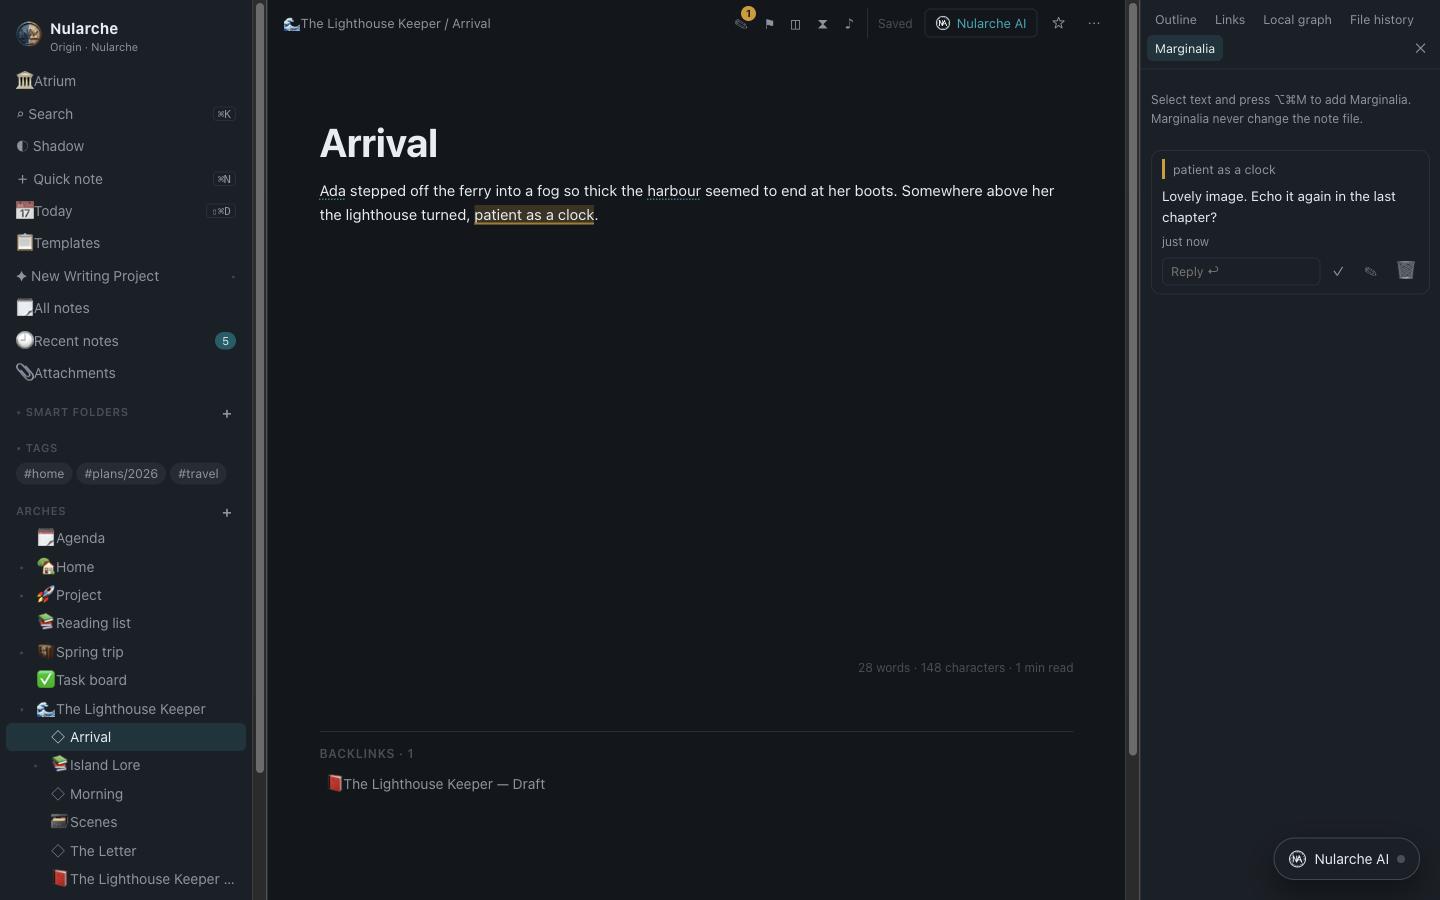
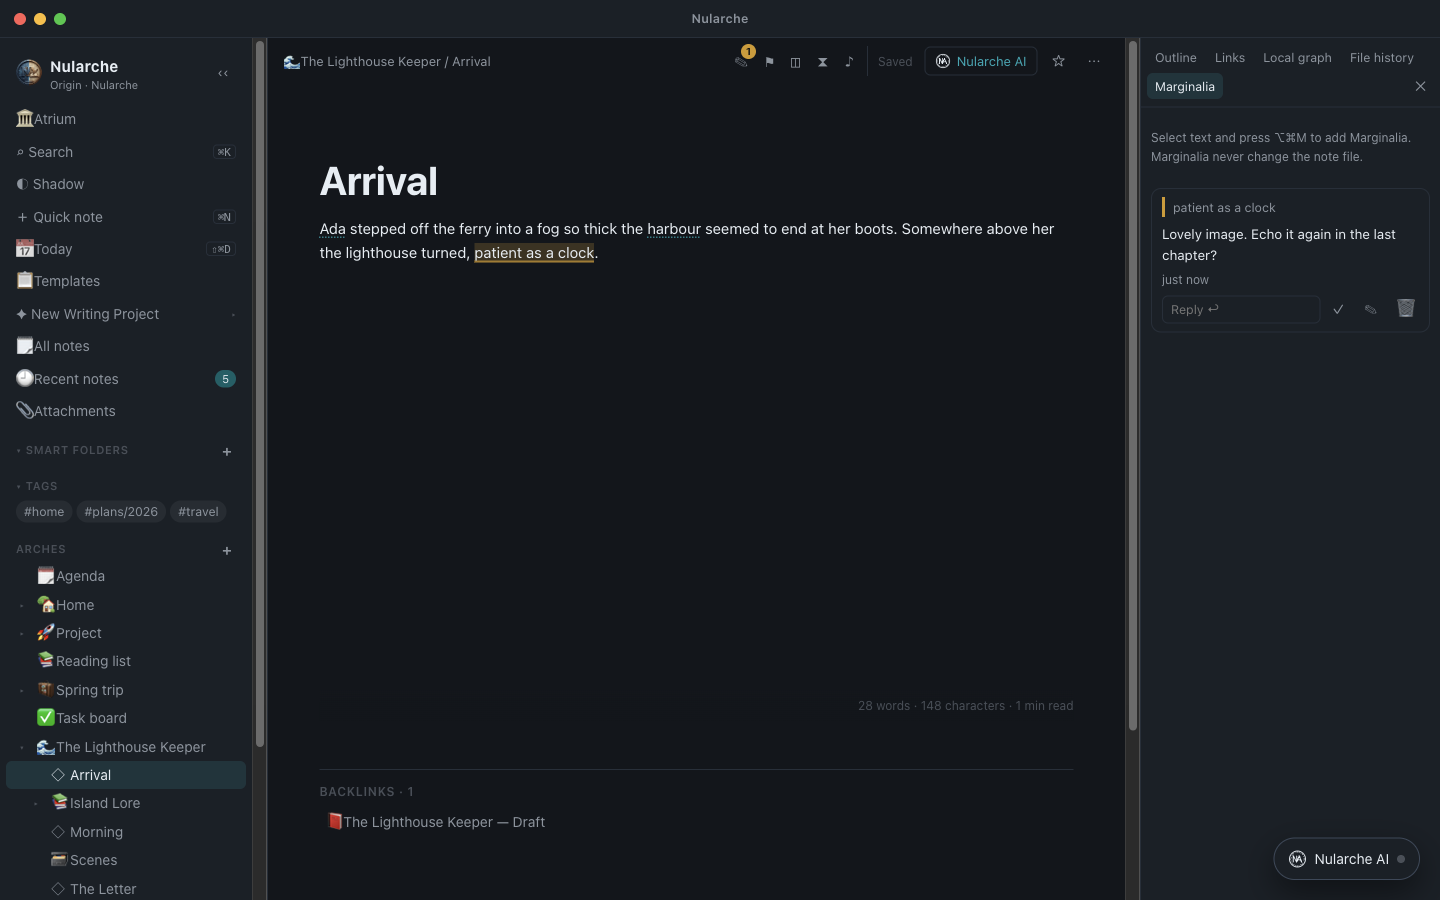
feat(ui): sidebar and title bar match the chosen background
Backgrounds fill the whole window; the sidebar, side panel and title bar
become frosted glass over them, and follow the app theme when no
background is set. macOS gets a title bar drawn by Nularche; Windows and
Linux switch the native frame to dark or light. README screenshots now
show this, the collapsible sidebar and the About page.

diff --git a/packages/desktop/src/main.ts b/packages/desktop/src/main.ts
@@ -4,7 +4,7 @@
 // .nlc/.nla dosyalarını karşılar. Uygulama hiçbir AI kimlik bilgisine dokunmaz; AI işi kullanıcının
 // seçtiği resmi araçta (Claude, ChatGPT, Gemini) "nularche" MCP sunucusuyla yapılır.
 
-import { app, BrowserWindow, clipboard, dialog, ipcMain, Menu, nativeTheme, shell, type MenuItemConstructorOptions } from "electron";
+import { app, BrowserWindow, clipboard, dialog, ipcMain, Menu, nativeTheme, shell, type BrowserWindowConstructorOptions, type MenuItemConstructorOptions } from "electron";
 import { existsSync } from "node:fs";
 import { copyFile, mkdir, readdir, readFile, writeFile } from "node:fs/promises";
 import { homedir } from "node:os";
@@ -349,6 +349,22 @@ async function importArchiveFile(file: string): Promise<{ imported: number; root
   return { imported: res.imported, rootIds: res.rootIds };
 }
 
+/** Pencere çerçevesi: macOS'ta başlık çubuğunu arayüz çizer (seçilen arka plana uysun diye); trafik ışıkları yerinde kalır.
+ * Windows ve Linux'ta yerel çerçeve ve menü çubuğu korunur; renkleri `set-chrome` ile koyu/açık olarak arka plana uyar. */
+const frameOptions = (): BrowserWindowConstructorOptions =>
+  process.platform === "darwin" ? { titleBarStyle: "hidden", trafficLightPosition: { x: 14, y: 13 } } : {};
+
+/** Arka plan seçiliyken yerel çerçevenin (başlık çubuğu, menüler) koyu/açık görünümü; null ise kullanıcının teması. */
+let chromeOverride: "dark" | "light" | null = null;
+const applyNativeTheme = () => (nativeTheme.themeSource = chromeOverride ?? settings.theme ?? "system");
+
+/** Tam ekrandayken arayüzün çizdiği başlık çubuğu gizlenir. */
+function watchFullScreen(w: BrowserWindow): void {
+  const send = (on: boolean) => w.webContents.send("nularche:full-screen", on);
+  w.on("enter-full-screen", () => send(true));
+  w.on("leave-full-screen", () => send(false));
+}
+
 /** Ayrı not pencereleri (Pencere → Notu ayrı pencerede aç). */
 const noteWindows = new Set<BrowserWindow>();
 
@@ -362,6 +378,7 @@ function createNoteWindow(nodeId: string): void {
     title: "Nularche",
     backgroundColor: nativeTheme.shouldUseDarkColors ? DARK_BG : LIGHT_BG,
     show: false,
+    ...frameOptions(),
     webPreferences: {
       preload: resourcePath("preload.cjs"),
       contextIsolation: true,
@@ -371,6 +388,7 @@ function createNoteWindow(nodeId: string): void {
     },
   });
   noteWindows.add(w);
+  watchFullScreen(w);
   w.once("ready-to-show", () => w.show());
   guardNavigation(w);
   w.on("closed", () => noteWindows.delete(w));
@@ -408,6 +426,7 @@ function createWindow(): void {
     title: "Nularche",
     backgroundColor: nativeTheme.shouldUseDarkColors ? DARK_BG : LIGHT_BG,
     show: false,
+    ...frameOptions(),
     webPreferences: {
       preload: resourcePath("preload.cjs"),
       contextIsolation: true,
@@ -417,6 +436,7 @@ function createWindow(): void {
       additionalArguments: [`--nlc-lang=${desktopLang()}`, `--nlc-theme=${settings.theme ?? "system"}`],
     },
   });
+  watchFullScreen(win);
   win.once("ready-to-show", () => win?.show());
   if (SMOKE) {
     win.webContents.on("console-message", (e) => {
@@ -748,8 +768,12 @@ function registerIpc(): void {
   ipcMain.handle("nularche:set-theme", async (_e, theme: unknown) => {
     if (!isTheme(theme)) return;
     settings.theme = theme;
-    nativeTheme.themeSource = theme;
+    applyNativeTheme();
     await saveSettings(settings);
+  });
+  ipcMain.handle("nularche:set-chrome", (_e, mode: unknown) => {
+    chromeOverride = mode === "dark" || mode === "light" ? mode : null;
+    applyNativeTheme();
   });
   ipcMain.handle("nularche:set-language", async (_e, lang: unknown) => {
     if (!isLang(lang)) return;

diff --git a/packages/web/src/styles.css b/packages/web/src/styles.css
@@ -1300,3 +1300,53 @@ button.status-pill:hover { color: var(--nlc-text-primary); border-color: var(--n
 .about-support { align-items: center; }
 .about-mail { font-size: 15px; font-weight: 600; color: var(--nlc-accent-primary); text-decoration: none; padding: 6px 12px; border: 1px solid var(--nlc-border-subtle); border-radius: 8px; }
 .about-mail:hover { border-color: var(--nlc-accent-primary); background: var(--nlc-accent-glow); }
+
+/* Arayüzün çizdiği macOS başlık çubuğu (2.0): tema ya da seçilen arka planla aynı tonda. */
+:root[data-frame="mac"] { --frame-top: 38px; }
+:root[data-frame="mac"] .app { padding-top: var(--frame-top); }
+.titlebar { position: fixed; top: 0; left: 0; right: 0; height: 38px; z-index: 1000; display: flex; align-items: center; justify-content: center; font-size: 12.5px; font-weight: 600; letter-spacing: 0.02em; color: var(--nlc-text-secondary); background: var(--nlc-bg-elevated); border-bottom: 1px solid var(--nlc-border-subtle); -webkit-app-region: drag; user-select: none; }
+.focus-hud.top { top: var(--frame-top, 0px); }
+.focus-picker { top: calc(var(--frame-top, 0px) + 46px); }
+.rail-tip { z-index: 1001; }
+
+/* Seçilen arka plan bütün pencereye yayılır: kenar çubuğu ve başlık çubuğu onu buzlu cam gibi gösterir.
+   Yazılar arka planın koyu/açık tonuna göre okunur; açılır menüler opak kalır. */
+.app.wrap-bg > .main { background: transparent; }
+.app.wrap-bg > .sidebar, .app.wrap-bg > .titlebar, .app.wrap-bg > .side-panel { background: var(--chrome-glass); backdrop-filter: blur(22px) saturate(1.3); -webkit-backdrop-filter: blur(22px) saturate(1.3); color: var(--nlc-text-primary); }
+.app.wrap-bg.chrome-dark > .sidebar, .app.wrap-bg.chrome-dark > .titlebar, .app.wrap-bg.chrome-dark > .side-panel {
+  --chrome-glass: rgba(14, 18, 24, 0.46);
+  --nlc-bg-surface: #12161b;
+  --nlc-bg-elevated: #1a2027;
+  --nlc-border-subtle: rgba(255, 255, 255, 0.12);
+  --nlc-border-focus: rgba(255, 255, 255, 0.24);
+  --nlc-text-primary: #eef2f6;
+  --nlc-text-secondary: #c0c8d0;
+  --nlc-text-shadow: #95a0ab;
+  --nlc-accent-primary: #3cc6d0;
+  --nlc-accent-glow: rgba(60, 198, 208, 0.2);
+  --nlc-accent-deep: #005f66;
+  --nlc-hover: rgba(255, 255, 255, 0.08);
+  --nlc-code-bg: rgba(0, 0, 0, 0.25);
+  color-scheme: dark;
+}
+.app.wrap-bg.chrome-light > .sidebar, .app.wrap-bg.chrome-light > .titlebar, .app.wrap-bg.chrome-light > .side-panel {
+  --chrome-glass: rgba(255, 255, 255, 0.5);
+  --nlc-bg-surface: #ffffff;
+  --nlc-bg-elevated: #f6f8fa;
+  --nlc-border-subtle: rgba(0, 0, 0, 0.1);
+  --nlc-border-focus: rgba(0, 0, 0, 0.22);
+  --nlc-text-primary: #1f2328;
+  --nlc-text-secondary: #424a53;
+  --nlc-text-shadow: #656d76;
+  --nlc-accent-primary: #007f89;
+  --nlc-accent-glow: rgba(0, 127, 137, 0.14);
+  --nlc-accent-deep: #9ad9de;
+  --nlc-hover: rgba(0, 0, 0, 0.06);
+  --nlc-code-bg: rgba(0, 0, 0, 0.05);
+  color-scheme: light;
+}
+/* Arka plan üzerinde kaydırma çubukları ince ve yarı saydamdır; gri şeritler sahneyi bölmez. */
+.app.wrap-bg ::-webkit-scrollbar { width: 10px; height: 10px; background: transparent; }
+.app.wrap-bg ::-webkit-scrollbar-thumb { border-radius: 8px; border: 3px solid transparent; background-clip: padding-box; }
+.app.wrap-bg.chrome-dark ::-webkit-scrollbar-thumb { background-color: rgba(255, 255, 255, 0.22); }
+.app.wrap-bg.chrome-light ::-webkit-scrollbar-thumb { background-color: rgba(0, 0, 0, 0.22); }

diff --git a/scripts/screenshots.ts b/scripts/screenshots.ts
@@ -86,6 +86,11 @@ const app = await electron.launch({
 const page: Page = await app.firstWindow();
 await page.setViewportSize({ width: 1440, height: 900 });
 const shot = (name: string) => page.screenshot({ path: path.join(out, `${name}.png`) });
+// Sayfa görüntüsü yerel trafik ışıklarını içermez; macOS penceresi gibi görünsün diye başlık çubuğuna çizilir.
+const lights = `.titlebar::before { content: ""; position: absolute; left: 14px; top: 13px; width: 12px; height: 12px; border-radius: 50%; background: #ff5f57; box-shadow: 20px 0 #febc2e, 40px 0 #28c840; }`;
+await page.addInitScript((css) => addEventListener("DOMContentLoaded", () => document.head.append(Object.assign(document.createElement("style"), { textContent: css }))), lights);
+await page.addStyleTag({ content: lights });
+const putPrefs = (prefs: Record<string, unknown>) => page.evaluate(async (b) => void (await fetch("/api/prefs", { method: "PUT", headers: { "content-type": "application/json" }, body: JSON.stringify(b) })), prefs);
 const fromTemplate = async (name: string) => {
   await page.locator(".side-btn", { hasText: "Templates" }).click();
   await page.locator(".segmented button", { hasText: "New Arche" }).click();
@@ -416,6 +421,41 @@ try {
   await page.locator(".glossary").waitFor();
   await page.waitForTimeout(300);
   await shot("vocabulary-light");
+  await page.keyboard.press("Escape");
+  // Arka plana uyan kenar çubuğu ve başlık çubuğu, küçültülmüş kenar çubuğu ve Hakkında sayfası.
+  const withBg = async (writingBg: unknown, name: string, scheme: "dark" | "light") => {
+    await putPrefs({ writingBg, writingBgEverywhere: true });
+    await page.evaluate(() => location.reload());
+    await page.locator(".sidebar").waitFor();
+    await page.emulateMedia({ colorScheme: scheme });
+    await page.evaluate((id) => (location.hash = id), studio.arrival);
+    await page.locator(".ProseMirror").first().waitFor();
+    await page.mouse.move(700, 10);
+    await page.waitForTimeout(900);
+    await shot(name);
+  };
+  await withBg({ kind: "scene", id: "lavender" }, "chrome-lavender", "light");
+  await withBg({ kind: "scene", id: "night" }, "chrome-night", "light");
+  await withBg({ kind: "palette", id: "sepia" }, "chrome-sepia", "dark");
+  await putPrefs({ writingBg: { kind: "none" }, writingBgEverywhere: false, sidebarMini: true });
+  await page.evaluate(() => location.reload());
+  await page.locator(".sidebar.mini").waitFor();
+  await page.emulateMedia({ colorScheme: "dark" });
+  await page.evaluate(() => (location.hash = ""));
+  await page.locator(".dashboard").waitFor();
+  const tip = page.locator(".sidebar.mini .rail-btn").nth(11);
+  await tip.hover().catch(() => undefined);
+  await page.waitForTimeout(500);
+  await shot("sidebar-mini-dark");
+  await putPrefs({ sidebarMini: false });
+  await page.evaluate(() => location.reload());
+  await page.locator(".sidebar:not(.mini)").waitFor();
+  await page.emulateMedia({ colorScheme: "light" });
+  await page.locator(".side-btn", { hasText: "Settings" }).click();
+  await page.getByRole("tab", { name: "About" }).click();
+  await page.locator(".settings-body").evaluate((el) => (el.scrollTop = 250));
+  await page.waitForTimeout(500);
+  await shot("about-light");
   await page.keyboard.press("Escape");
   console.log(`Ekran görüntüleri: ${out}`);
 } finally {

diff --git a/packages/web/src/App.tsx b/packages/web/src/App.tsx
@@ -12,6 +12,7 @@ import { TemplateGallery } from "./templates/TemplateGallery.tsx";
 import { BUILTIN_TEMPLATES } from "./templates/builtins.ts";
 import { todayIso } from "./database/model.ts";
 import { Sidebar } from "./Sidebar.tsx";
+import { TitleBar } from "./TitleBar.tsx";
 import { NularcheAI, type AiContext } from "./ai/NularcheAI.tsx";
 import { Onboarding } from "./ai/Onboarding.tsx";
 import { PROVIDER_LABEL } from "./ai/prompts.ts";
@@ -656,8 +657,13 @@ export function App() {
 
   const bg = backgroundStyle(writingBg, fileUrl);
   const bgOn = (focus || bgEverywhere) && writingBg.kind !== "none";
+  // Arka plan bütün pencereye yayılır; kenar çubuğu ve başlık çubuğu onu buzlu cam gibi gösterir.
+  const chrome = bgOn ? (bg.dark ? "dark" : "light") : null;
+  const appStyle = (bgOn && bg.background ? { background: bg.background } : undefined) as React.CSSProperties | undefined;
+  const wrapClass = chrome ? `wrap-bg chrome-${chrome}` : "";
+  // Yerel çerçeve (Windows/Linux başlık çubuğu, menüler) de arka planın koyu/açık tonuna uyar.
+  useEffect(() => void desktop?.setChrome?.(chrome), [chrome]);
   const mainStyle = {
-    ...(bgOn && bg.background ? { background: bg.background } : {}),
     ...(bgOn && bg.color ? { "--bg-text": bg.color } : {}),
     // Varsayılan olarak satırlar 1.0'daki gibi pencere genişliğine uyar; sabit genişlik isteğe bağlıdır.
     "--focus-width": fixedWidth ? `${focusWidth}px` : "100%",
@@ -666,7 +672,8 @@ export function App() {
 
   if (SINGLE && route.kind === "node") {
     return (
-      <div className={`app single-window ${focus ? "focus-mode" : ""}`}>
+      <div className={`app single-window ${focus ? "focus-mode" : ""} ${wrapClass}`} style={appStyle}>
+        <TitleBar />
         <main className={mainClass} style={mainStyle}>
           <NodeView
             key={route.id}
@@ -691,7 +698,11 @@ export function App() {
   }
 
   return (
-    <div className={`app ${focus ? "focus-mode" : ""} ${focus && focusDim ? "focus-dim" : ""} ${readable ? "readable" : ""} ${panel && !focus ? "with-panel" : ""} ${split && route.kind === "node" && !focus ? "with-split" : ""}`}>
+    <div
+      className={`app ${focus ? "focus-mode" : ""} ${focus && focusDim ? "focus-dim" : ""} ${readable ? "readable" : ""} ${panel && !focus ? "with-panel" : ""} ${split && route.kind === "node" && !focus ? "with-split" : ""} ${wrapClass}`}
+      style={appStyle}
+    >
+      <TitleBar />
       {snippets
         .filter((x) => enabledSnippets.includes(x.name))
         .map((x) => (

diff --git a/packages/web/src/TitleBar.tsx b/packages/web/src/TitleBar.tsx
@@ -1,0 +1,25 @@
+// macOS masaüstü penceresinde başlık çubuğunu arayüz çizer: böylece seçilen arka plana (ya da arka plan yoksa
+// uygulamanın temasına) uyar. Trafik ışıkları işletim sisteminindir; çubuk pencereyi sürüklemeye yarar.
+// Tam ekranda çubuk gizlenir. Windows/Linux'ta yerel çerçeve korunur (menü çubuğu orada durur).
+
+import { useEffect, useState } from "react";
+import { desktop } from "./desktop.ts";
+
+const MAC_FRAME = desktop?.platform === "darwin";
+
+export function TitleBar() {
+  const [full, setFull] = useState(false);
+  useEffect(() => desktop?.onFullScreen?.(setFull), []);
+  const shown = MAC_FRAME && !full;
+  useEffect(() => {
+    const root = document.documentElement;
+    if (shown) root.dataset.frame = "mac";
+    else delete root.dataset.frame;
+  }, [shown]);
+  if (!shown) return null;
+  return (
+    <div className="titlebar" aria-hidden="true">
+      Nularche
+    </div>
+  );
+}

diff --git a/packages/desktop/src/preload.ts b/packages/desktop/src/preload.ts
@@ -12,6 +12,13 @@ contextBridge.exposeInMainWorld("nularche", {
   setLanguage: (lang: string) => invoke("set-language", lang),
   theme: themeArg === "dark" || themeArg === "light" || themeArg === "system" ? themeArg : null,
   setTheme: (theme: string) => invoke("set-theme", theme),
+  platform: process.platform,
+  setChrome: (mode: string | null) => invoke("set-chrome", mode),
+  onFullScreen: (cb: (on: boolean) => void) => {
+    const listener = (_e: IpcRendererEvent, on: unknown) => cb(on === true);
+    ipcRenderer.on("nularche:full-screen", listener);
+    return () => ipcRenderer.removeListener("nularche:full-screen", listener);
+  },
   rendererReady: () => invoke("renderer-ready"),
   info: () => invoke("info"),
   changeOrigin: () => invoke("change-origin"),

diff --git a/packages/web/src/desktop.ts b/packages/web/src/desktop.ts
@@ -86,6 +86,11 @@ export interface DesktopBridge {
   /** Masaüstü ayarlarında kayıtlı tema seçimi (yoksa null = sistem). */
   theme: "dark" | "light" | "system" | null;
   setTheme(theme: "dark" | "light" | "system"): Promise<void>;
+  /** İşletim sistemi (preload'dan; eski sürümlerde yok). */
+  platform?: string;
+  /** Yerel çerçevenin koyu/açık görünümü seçilen arka plana uysun; null kullanıcının temasına döner. */
+  setChrome?(mode: "dark" | "light" | null): Promise<void>;
+  onFullScreen?(cb: (on: boolean) => void): () => void;
   setLanguage(lang: "tr" | "en"): Promise<void>;
   rendererReady(): Promise<string | null>;
   info(): Promise<{ version: string; platform: string; originDir: string; warning: string | null }>;

diff --git a/packages/web/src/ai/useDraggable.ts b/packages/web/src/ai/useDraggable.ts
@@ -23,9 +23,11 @@ function load(key: string): Pos | null {
 function clamp(pos: Pos, el: HTMLElement | null): Pos {
   const w = el?.offsetWidth ?? 0;
   const h = el?.offsetHeight ?? 0;
+  // macOS'ta arayüzün çizdiği başlık çubuğunun altında kalır (pencere sürükleme alanı tıklamaları yutar).
+  const top = MARGIN + (parseFloat(getComputedStyle(document.documentElement).getPropertyValue("--frame-top")) || 0);
   return {
     x: Math.min(Math.max(MARGIN, pos.x), Math.max(MARGIN, window.innerWidth - w - MARGIN)),
-    y: Math.min(Math.max(MARGIN, pos.y), Math.max(MARGIN, window.innerHeight - h - MARGIN)),
+    y: Math.min(Math.max(top, pos.y), Math.max(top, window.innerHeight - h - MARGIN)),
   };
 }
 

diff --git a/README.md b/README.md
@@ -125,6 +125,30 @@ the same way canvas pages do, so they open in any editor and track nicely in Git
 - **Collapsible sidebar:** the ‹‹ button next to the logo (or ⌥⌘B / Ctrl+Alt+B) shrinks the sidebar to a narrow strip
   of icons: the logo, every menu item and your Arches with their icons (◈ when an Arche has none). Hover an icon to
   see its name; ›› opens the full sidebar again, and your choice is remembered.
+- **Settings → About** explains what Nularche is and does, lists its main features and gives the support address.
+
+<p align="center">
+  <img src="docs/screenshots/sidebar-mini-dark.png" width="49%" alt="The collapsed sidebar: the logo, menu icons and Arche icons, with a name on hover" />
+  <img src="docs/screenshots/about-light.png" width="49%" alt="Settings → About: features, support address and the Nularche language" />
+</p>
+
+**A window that matches your background**
+- When a writing background is shown (*Also show the background on normal pages* in the focus-mode background settings, or in focus mode), it
+  fills the whole window. The sidebar, the side panel and the title bar become frosted glass over it, so they take
+  on the colours of the chosen landscape, palette, colour or your own image. Text stays readable: light on dark
+  backgrounds, dark on light ones.
+- With no background, the sidebar and title bar follow the app's own theme (Dark, Light or System) rather than the
+  operating system's.
+- On macOS Nularche draws its own title bar (the window buttons stay where they are, and you drag the window by the
+  bar). On Windows and Linux the native title bar and menus switch to dark or light to match the background.
+
+<p align="center">
+  <img src="docs/screenshots/chrome-lavender.png" width="49%" alt="The Lavender Hills landscape behind the sidebar, the title bar and the note" />
+  <img src="docs/screenshots/chrome-night.png" width="49%" alt="The Night Sky landscape: sidebar and title bar in the same dark tones" />
+</p>
+<p align="center">
+  <img src="docs/screenshots/chrome-sepia.png" width="860" alt="The Sepia palette with the app in dark theme: the whole window stays sepia" />
+</p>
 
 **AI**
 - The MCP server gains `get_manuscript`, `add_to_writing_project`, `list_wiki_entries`, `get_wiki_mentions`,

diff --git a/CHANGELOG.md b/CHANGELOG.md
@@ -38,6 +38,10 @@ step of the first-run wizard, on the empty-Origin welcome screen and in the *Nul
   icon (◈ when it has none), with names on hover; the choice is remembered.
 - Settings → About now explains what Nularche is and does, lists its main features and gives the support address
   (verseofac@gmail.com).
+- Backgrounds fill the whole window: the sidebar, side panel and title bar turn into frosted glass over the chosen
+  landscape, palette, colour or image, with readable text on dark and light backgrounds. Without a background they
+  follow the app theme instead of the system theme. macOS gets a title bar drawn by Nularche; on Windows and Linux
+  the native title bar and menus switch to dark or light to match.
 - Settings reorganised into searchable categories (Appearance, Writing, Aura and Focus, Automation, Notes and Origin,
   Shortcuts, Publishing, Calendar, AI, About) with grouped cards.
 
